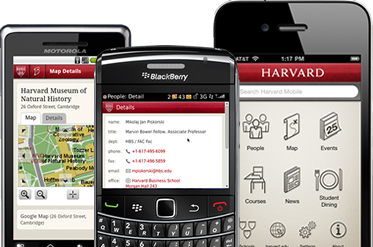
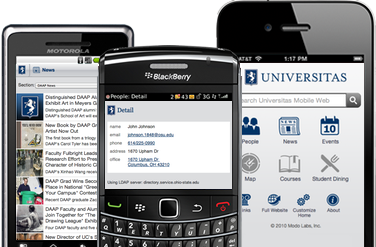
Modo version of info module

diff --git a/Web-app/site/Modo/themes/default/modules/info/css/common.css b/Web-app/site/Modo/themes/default/modules/info/css/common.css
@@ -3,7 +3,7 @@
 
 body {
 	margin: 0 20px;
-	background: #978d87 url(/modules/info/images/body_bg.png) repeat-x;
+	background: #DCDDDF;
 	font-family: Arial, Helvetica, sans-serif;
 	font-size: 12px;
 	line-height: 1.4;
@@ -15,7 +15,7 @@ img {
 }
 
 a, a:visited {
-	color: #9E3039;
+	color: #036;
 }
 
 p {
@@ -52,20 +52,19 @@ p {
 }
 
 #logo {
-	padding-top: 10px;
+  margin-top: -10px;
 }
 
 #header h1 {
-	color: #fff;
-	padding: 40px 0 0 54px;
+	padding: 30px 0 0 64px;
 	font-size: 36px;
+	width: 300px;
 	margin: 0;
 	line-height: 1;
 }
 
 #header p {
-	color: #fff;
-	margin:12px 0 0 180px;
+	margin:12px 0 0 164px;
 	width: 300px;
 	font-size: 16px;
 	line-height: 1.2;
@@ -75,6 +74,7 @@ p {
 	min-height: 400px;
 	background-color: #fff;
 	padding: 35px 40px 25px;
+	border: solid 2px #BCBCBC;
 }
 
 .leftcol {
@@ -90,34 +90,39 @@ p {
 }
 
 #content h2 {
-	color: #9E3039;
-	font-family: Georgia, "Times New Roman", Times, serif;
-	font-size: 18px;
-	line-height: 1.2;
-	font-weight: normal;
+  color: #036;
+  font-family: 'Helvetica Neue', Helvetica, Arial, sans-serif;
+  font-size: 21px;
+  font-weight: normal;
+  line-height: 1.2;
 	margin: 0 0 10px;
 	padding: 0;
 }
 
-div.feedback {
-	width: 390px;
-	height: 200px;
-	background: url(modules/info/images/beige_box_bg.png) no-repeat top left;
-	margin: 32px 0;
+a#feedback, a#feedback:visited {
+  text-decoration: none !important;
+  background-color: #003366;
+  border-bottom-left-radius: 8px 8px;
+  border-bottom-left-radius: 8px 8px;
+  border-bottom-right-radius: 8px 8px;
+  border-bottom-right-radius: 8px 8px;
+  border-top-left-radius: 8px 8px;
+  border-top-left-radius: 8px 8px;
+  border-top-right-radius: 8px 8px;
+  border-top-right-radius: 8px 8px;
+  color: white;
+  display: inline-block;
+	padding: 12px;
+	margin-top: 24px;
 }
-
-.feedback p {
+a#feedback:hover {
+	background-color: #002244;
+}
+a#feedback strong {
 	font-size: 16px;
-	padding: 15px 25px 15px 20px;
-	color: #555;
 }
-
-.feedback a, .feedback a:visited {
-	color: #000;
-}
-
-.black_font {
-	color:#000;
+a#feedback .address {
+  text-decoration: underline;
 }
 
 table#download {
@@ -161,13 +166,24 @@ table#features td h2 {
 	text-decoration: underline;
 }
 
-a#preview_site, a#preview_site:visited {
-	display: block;
-	width: 217px;
-	height: 54px;
-	background: url(modules/info/images/preview.png) bottom left no-repeat;
+a#preview, a#preview:visited {
+  background-color: #003366;
+  border-bottom-left-radius: 8px 8px;
+  border-bottom-left-radius: 8px 8px;
+  border-bottom-right-radius: 8px 8px;
+  border-bottom-right-radius: 8px 8px;
+  border-top-left-radius: 8px 8px;
+  border-top-left-radius: 8px 8px;
+  border-top-right-radius: 8px 8px;
+  border-top-right-radius: 8px 8px;
+  color: white;
+  display: inline-block;
+  line-height: 18px;
+  padding: 11px;
+  margin-bottom: 24px;
+  text-decoration: none !important;
 }
 
-a#preview_site:hover {
-	background: url(modules/info/images/preview.png) top left;
+a#preview:hover {
+	background-color: #002244;
 }

diff --git a/Web-app/lib/DeviceClassifier.php b/Web-app/lib/DeviceClassifier.php
@@ -39,21 +39,18 @@ class DeviceClassifier {
       
       switch ($data['pagetype']) {
         case 'Basic':
-          $this->pagetype = 'basic';
+          if ($data['platform'] == 'computer' || $data['platform'] == 'spider') {
+            $this->pagetype = 'compliant';
+          } else {
+            $this->pagetype = 'basic';
+          }
           break;
         
         case 'Compliant':
         case 'Webkit':
         case 'Touch':
-          $this->pagetype = 'compliant';
-          break;
-          
         default:
-          if ($data['platform'] == 'computer' || $data['platform'] == 'spider') {
-            $this->pagetype = 'desktop';
-          } else {
-            $this->pagetype = 'compliant';
-          }
+          $this->pagetype = 'compliant';
           break;
       }
       $this->platform = $data['platform'];
